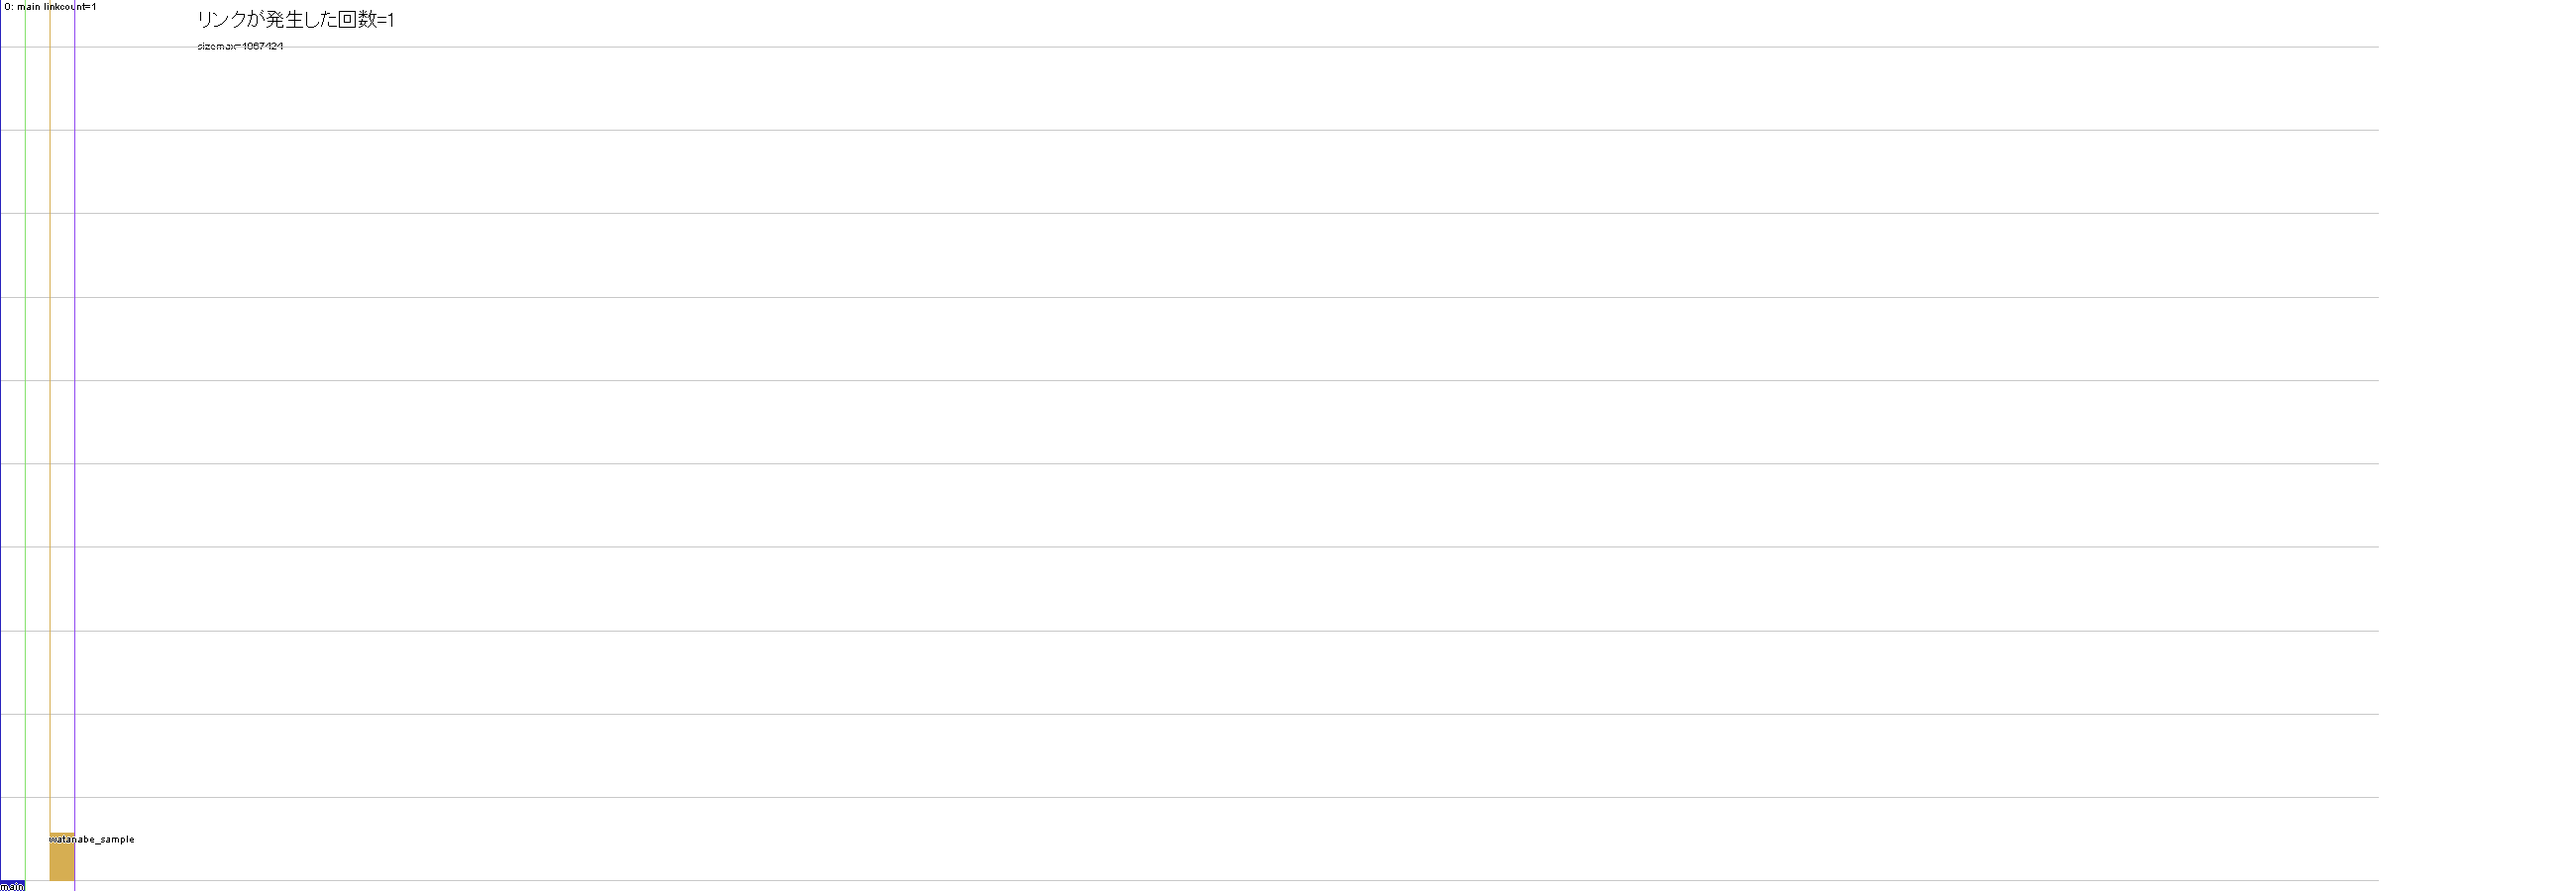
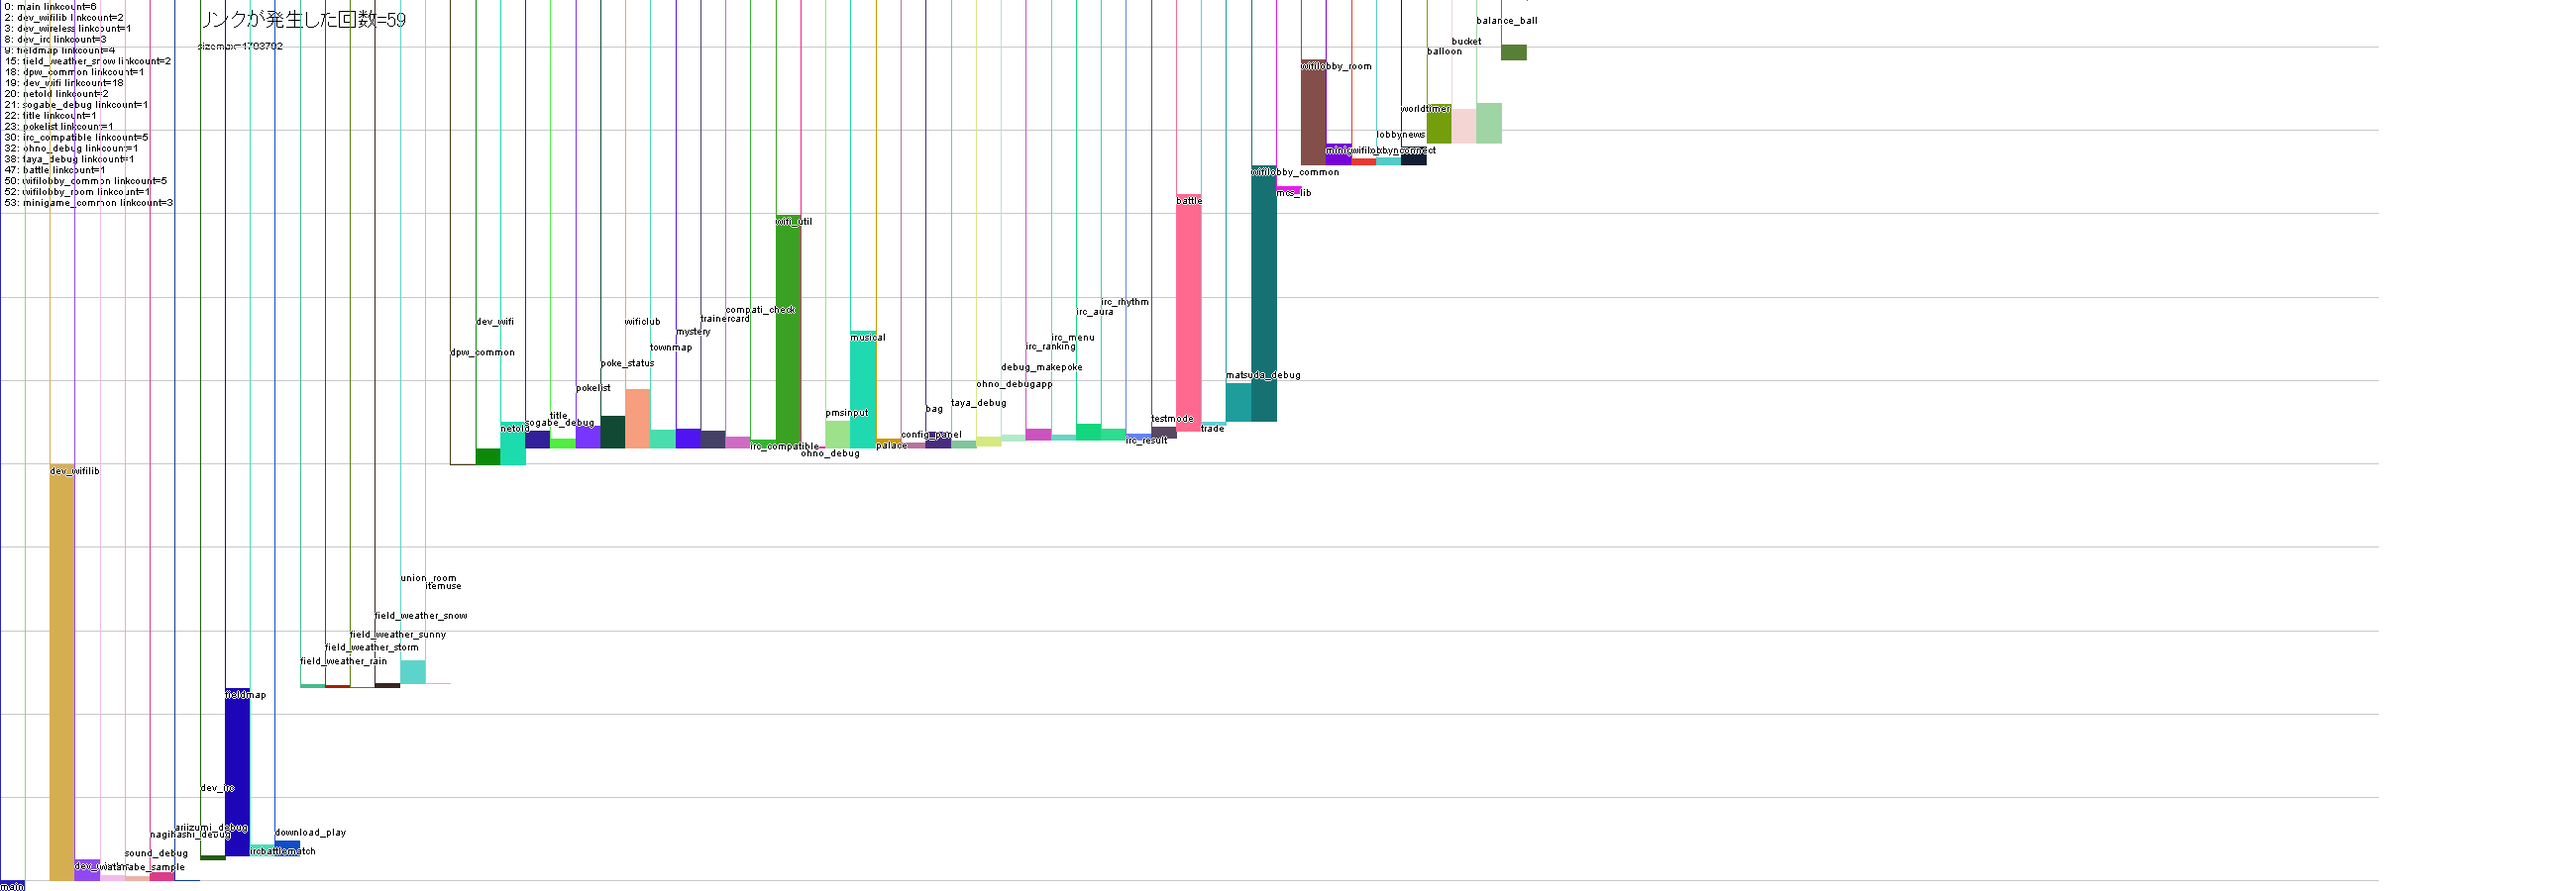
自作ツール類の更新

diff --git a/tools/naixread.rb b/tools/naixread.rb
@@ -39,7 +39,7 @@ class NAIXReader
       return @index.index(name)
     else
       p = "NARC_" + @arc_name + "_" + name
-      #puts "seach short name :#{p}"
+      #puts "seach short name :#{name} -->:#{p}"
       return @index.index(p)
     end
   end
